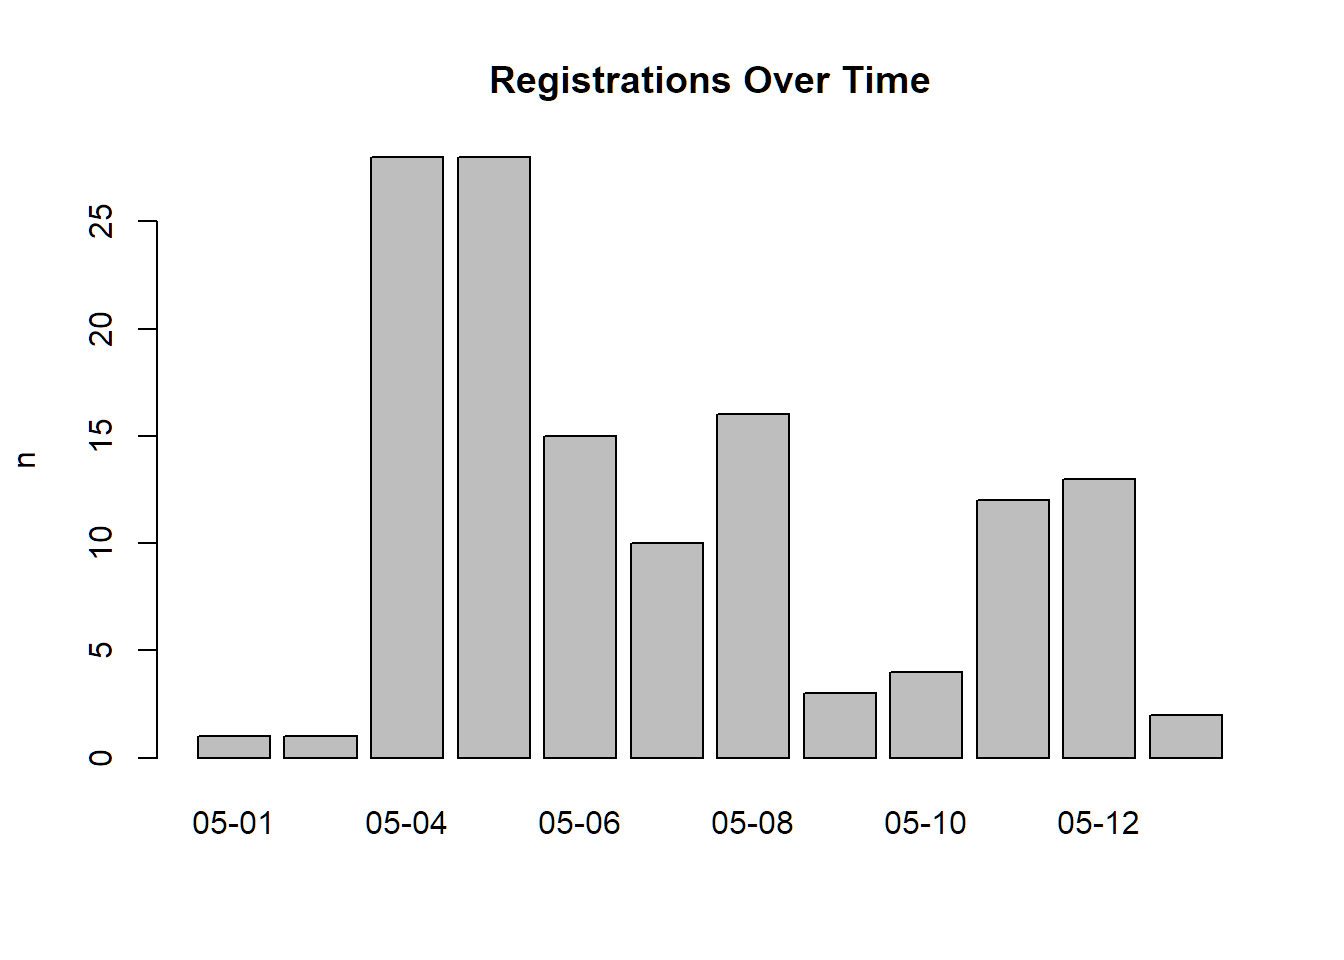
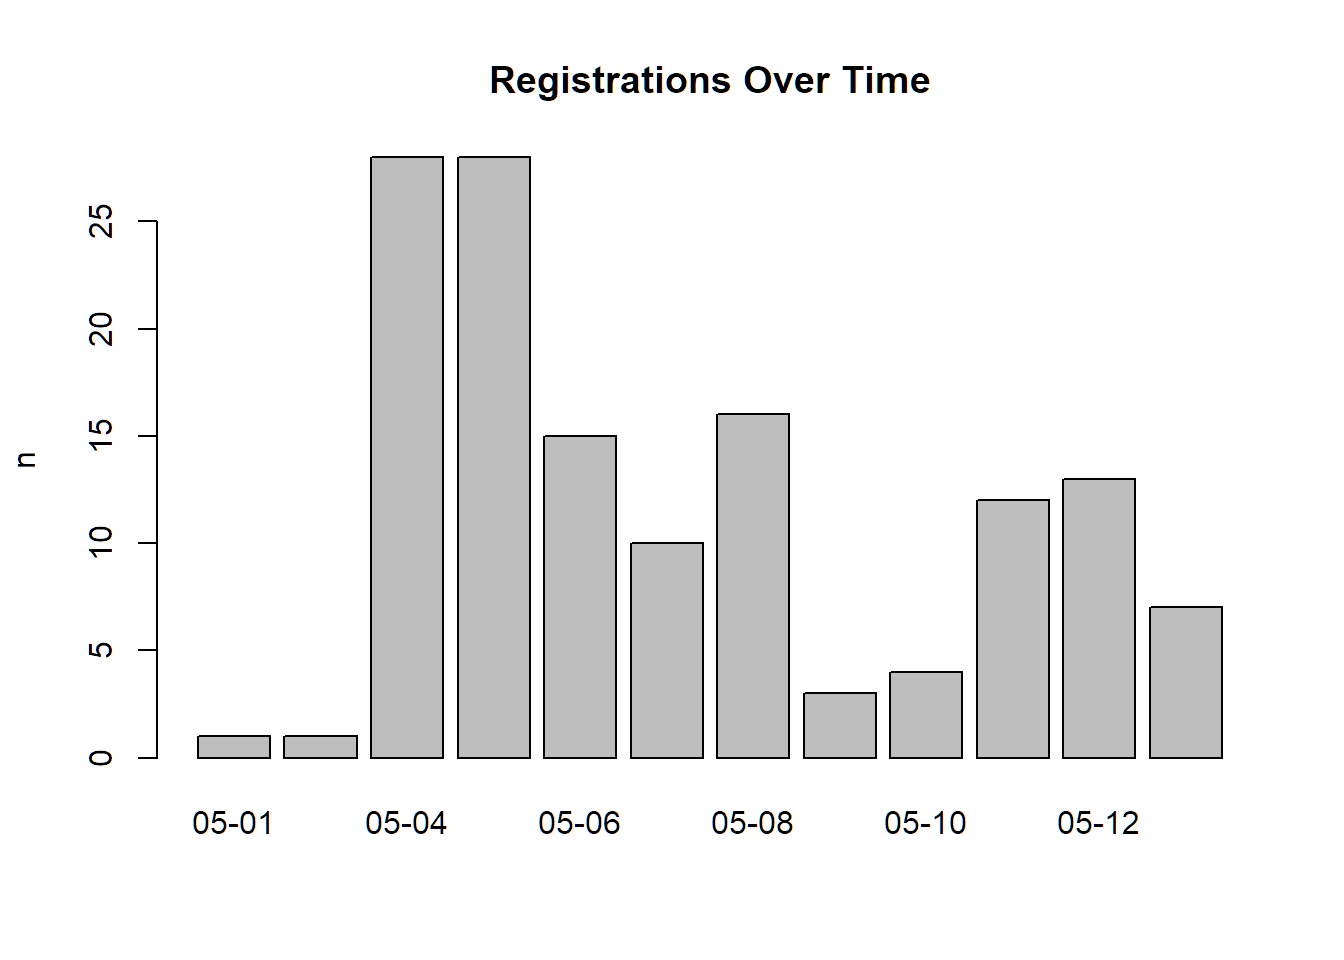
Updated reg summary

Changed region(s): [[0.8438, 0.625, 0.9375, 0.75]]

diff --git a/docs/reg_summary.html b/docs/reg_summary.html
@@ -270,7 +270,7 @@ div.tocify {
 <img src='images/dc-logo_250x182.png'/><br/><span style="letter-spacing: 0.1em; font-weight:800; font-size:18px; color:#836758; font-family:OCR A Std, Andale Mono, monospace;">ONLINE</span>
 </div>
 DroneCamp 2020 Registrations</h1>
-<h4 class="date">as of Wednesday May 13, 11:03</h4>
+<h4 class="date">as of Wednesday May 13, 13:23</h4>
 
 </div>
 
@@ -298,15 +298,15 @@ h4 {
 <h1>Summary</h1>
 <p><p class="total">
 Total: 
-133
+138
 </p><p>
 <em>estimate based on unique email addresses</em>
 </p></p>
 </div>
 <div id="map" class="section level1">
 <h1>Map</h1>
-<div id="htmlwidget-46341efca75de58c9518" style="width:672px;height:480px;" class="leaflet html-widget"></div>
-<script type="application/json" data-for="htmlwidget-46341efca75de58c9518">{"x":{"options":{"crs":{"crsClass":"L.CRS.EPSG3857","code":null,"proj4def":null,"projectedBounds":null,"options":{}}},"calls":[{"method":"addTiles","args":["//{s}.tile.openstreetmap.org/{z}/{x}/{y}.png",null,null,{"minZoom":0,"maxZoom":18,"tileSize":256,"subdomains":"abc","errorTileUrl":"","tms":false,"noWrap":false,"zoomOffset":0,"zoomReverse":false,"opacity":1,"zIndex":1,"detectRetina":false,"attribution":"&copy; <a href=\"http://openstreetmap.org\">OpenStreetMap<\/a> contributors, <a href=\"http://creativecommons.org/licenses/by-sa/2.0/\">CC-BY-SA<\/a>"}]},{"method":"addCircleMarkers","args":[[37.4635519,36.678155,44.6111643,44.60509,38.5449065,32.7764749,36.825582,34.048411,38.5449065,36.9741171,38.556576,40.8020712,35.5005139,36.9707,38.5449065,37.7749295,37.3021632,40.659753,38.457611,37.523901,32.700018,36.6002378,34.4208305,34.117047,37.9829496,40.867469,36.681161,38.549256,41.081726,38.440111,32.704499,33.794028,40.039784,39.072831,37.5629917,40.160138,39.5807452,52.9817372,49.2488091,43.6150186,47.6248791,51.0447331,39.720955,39.720955,39.720955,39.720955,39.720955,40.5852602,34.063209,36.678155,36.447533,35.5496939,40.5852602,34.0966764,36.6844029,49.2827291,34.268736,36.9741171,39.830936,36.722616,40.4233142,40.5852602,39.720955,36.6844029,43.0085587,40.867469,37.8715226,38.480494,33.640302,36.148444,49.2488091,38.672127,32.715738,39.7392358,38.3293416,38.3293416,38.3293416,40.0149856,40.4233142,36.812905,33.571185,34.0522342,32.715738,32.557684,38.939926,38.939926,47.899217,45.497856,41.971044,34.432896,36.3302284,36.358928,36.678155,39.9242266,38.7296252,43.828266,32.6926512,32.8328112,49.2710518,39.202725,34.110009,34.1175895,37.4529598,45.5051064,39.767536,49.1344187,39.114138,34.1175895,39.049377,39.049377,47.899217,32.800259,32.853471,40.399281,32.8111612,39.15973,50.9341773,36.6844029,37.342056,33.016928,39.720955,33.869114,33.016928,36.678155,38.546306,39.7778,45.56544,45.482341,51.1097378,38.528103,38.528103],[-122.4285862,-121.79724,-69.3345032,-69.33022,-121.7405167,-79.9310512,-119.76358,-118.34015,-121.7405167,-122.0307963,-121.49285,-124.1636729,-119.2717761,-121.99086,-121.7405167,-122.4194155,-120.4829677,-124.22153,-122.69317,-120.8516,-114.52671,-121.8946761,-119.6981901,-117.77097,-120.3821724,-124.07519,-121.61538,-121.73655,-124.13112,-122.74563,-114.64644,-118.07218,-105.27938,-108.55,-122.3255254,-105.01772,-104.8771726,-122.4949058,-122.9805104,-116.2023137,-122.5210007,-114.0718831,-121.81888,-121.81888,-121.81888,-121.81888,-121.81888,-105.084423,-118.43643,-121.79724,-121.68611,-120.7060049,-105.084423,-117.7197785,-121.802173,-123.1207375,-119.2249,-122.0307963,-105.03736,-120.10081,-104.7091322,-105.084423,-121.81888,-121.802173,-81.2634983,-124.07519,-122.273042,-122.74976,-117.769442,-95.90841,-122.9805104,-121.15783,-117.1610838,-104.990251,-122.7096666,-122.7096666,-122.7096666,-105.2705456,-104.7091322,-121.78299,-117.15362,-118.2436849,-117.1610838,-94.74353,-119.9771868,-119.9771868,-97.05896,-122.76988,-87.75869,-119.837072,-119.2920585,-119.24027,-121.79724,-83.8088171,-120.798546,-84.74219,-114.6276916,-117.2712717,-123.1588119,-121.02076,-117.71973,-118.188329,-122.1817252,-122.6750261,-105.01973,-123.1163498,-121.6196,-118.188329,-76.49892,-76.49892,-97.05896,-115.35369,-115.58942,-104.70172,-115.3802643,-121.53735,-114.106128,-121.802173,-120.50154,-116.846046,-121.81888,-117.92985,-116.846046,-121.79724,-121.68682,-89.67982,-122.64635,-122.60007,-114.1517792,-76.98063,-76.98063],10,null,null,{"interactive":true,"className":"","stroke":true,"color":"#03F","weight":5,"opacity":0.5,"fill":true,"fillColor":"#03F","fillOpacity":0.2},1,null,["CE Advisor (Urban Forestry)<br/>UCCE San Mateo/San Francisco","Human Resources<br/>MPC Student","Professor<br/>Unity College","Professor of Geoscience<br/>Unity College","Executive Director, Sustainable Wine & Food Processing Center<br/>University of California Davis","Graduate Student<br/>College of Charleston","Turfgrass and Environmental Horticulture Advisor<br/>University of California Cooperative Extension","Postdoctoral Scholar<br/>UCLA","Associate Director River Restoration<br/>American Rivers","Senior Restoration Ecologist<br/>River Partners","Graduate Student<br/>UC Davis","Associate Environmental Planner<br/>Caltrans","Consultant/Remote Sensing Engineer<br/>Wonderful","Masters Candidate<br/>University of California Santa Cruz","Postdoc<br/>UC Davis","GIS Manager/Drone Pilot<br/>SFEI","Student<br/>University of California, Merced","Assistant Professor<br/>College of the Redwoods","Sr. GIS Analyst / Drone Ops<br/>Jackson Family Wines","Assistant Professor of Geography<br/>CSU, Stanislaus","Media Specialist and Drone Operator<br/>University of Arizona Yuma Center of Excellence for Desert Agriculture","GIS Technician<br/>CSU Monterey Bay","Master Student<br/>UCSB","Statewide Survey and Trapping Coordinator<br/>UC IPM","Professor<br/>Columbia College","Adjunct Lecturer<br/>Humboldt State University","Student Researcher<br/>California State University Monterey Bay","Graduate PhD student<br/>University of California Davis","Student<br/>College of the redwoods","Department Chair<br/>Santa Rosa Junior College","Professor of Geosciences/UAS<br/>Arizona Western College","Environmental Scientist<br/>California Department of Fish and Wildlife, Office of Spill Prevention and Response","GIS Ana.yst<br/>AGS Inc.","GIS Technician<br/>City of Grand Junction","Student<br/>College of San Mateo","Unemployed<br/>Unemployed","GIS Specialist<br/>ICON Engineering","Student / BC Ministry of Forests Auxiliary<br/>British Columbia Institute of Technology","Student<br/>British Columbia Institute of Technology","Assistant Professor, Human Environment Systems<br/>Boise State University","Sr Wildlife Biologist/Project Manager<br/>ManTech International","Geographer<br/>none","Water Conservation Technician<br/>Chico State University","Professor<br/>Chico State University","Student Assistant<br/>Chico State University","Student Assistant<br/>Chico State University","Student Assistant<br/>Chico State University","Owner<br/>Private Business","Undergraduate<br/>University of California, Berkeley","Graduate student<br/>UC Santa Cruz","Director, Hastings Reserve<br/>UC Berkeley","Program Manager<br/>Upper Salinas Las Tablas Resource Conservation District","Environmental Scientist<br/>Twin Fish Enterprises LLC","Student<br/>Claremont Graduate University","Graduate Student<br/>California State University Monterey Bay","Student<br/>BCIT","Lab/Field Assistant<br/>UCCE Ventura County","Master Student<br/>University of California Santa Cruz","Sr Geographic Analyst<br/>HERE Technologies","Field Agronomist<br/>Bayer","Professor & Chair<br/>University of Northern Colorado","Student Researcher<br/>Colorado State University","Instructor<br/>Butte College","IST II<br/>CSU. Monterey Bay","Teaching assistant<br/>Western University","It<br/>Humboldt State U","Field Research Safety CoE/Health & Safety Advisor<br/>UC Berkeley","Dairy Advisor<br/>University of California Cooperative Extension","Principal IT Auditor<br/>UC Irvine","Graduate student<br/>University of Tulsa","GIS Student<br/>BCIT","Postdoc<br/>UCDavis","Videographer<br/>SDSC","Student<br/>University of Denver","Scientific Programs Manager<br/>Marin/Sonoma Mosquito and Vector Control District","Environmental Biologist<br/>Marin/Sonoma Mosquito and Vector Control District","Assistant Manager<br/>Marin/Sonoma Mosquito and Vector Control District","Field Engineer<br/>UNAVCO","Emeritus Professor<br/>University of Northern Colorado","Digital Media Assistant<br/>Elkhorn Slough Foundation","Community Edication Specialist<br/>UCCE","Graduate Student<br/>California State University, Los Angeles","Teaching Assistant<br/>UCSD","Student<br/>Letourneau University","Adjunct Instructor<br/>LTCC","Citizen Science Program Coordinator<br/>League to Save Lake Tahoe","Owner<br/>UAS for Good LLC","Instructor<br/>Portland Community College","Instructor<br/>Harper College","R & D Engineer<br/>University of California Santa Barbara","Environmental Scientist<br/>CAL FIRE","Forerstry Assistant II<br/>CAL FIRE","Student<br/>CSU Monterey Bay","Associate Professor/Geospatial Technology Coordinator<br/>Clark State Community College","GIS Manager<br/>County of El Dorado","Instructor<br/>Mid Michigan College","Postdoc<br/>University of Arizona","R&D Engineer<br/>UC San Diego/Scripps Oceanography","Biologist<br/>Hemmera","Middle School Science Teacher<br/>Nevada City School of the Arts","Digital Scholarship Librarian<br/>Claremont Colleges","GIS Analyst and Geophysicist<br/>Rio Hondo College","Postdoctoral scholar<br/>UC Berkeley","student<br/>PSU","Retired<br/>None","Student in GIS<br/>BCIT (British Columbia Student of Technology)","Advisor<br/>UCCE Sutter-Yuba","GIS Analyst / Geophysicist / Geologist<br/>Rio Hondo College","Instructional Specialist<br/>Anne Arundel Community College","Professor<br/>Anne Arundel Community College","Assistant Professor of Aviation<br/>University of North Dakota","CENTER SUPERINTENDENT<br/>University of California  DREC","SRA<br/>University of California  DREC","Assistant Professor<br/>University of Northern Colorado","lab assistant<br/>UC Cooperative Extension  in Imperial","Farm hand<br/>CSU Chico, student","Student<br/>University of Calgary","Student<br/>CSUMB","Coordinator and Professor of Computer Science<br/>Merced College","Ph.D. student<br/>UC San Diego","Environmental Land Steward II<br/>Chico State Enterprise","President<br/>Roof Rx Inc","PhD student<br/>UCSD","Professor and Farm Incubator<br/>CSUMB","Program and Event Specialist<br/>UC ANR","Student<br/>University of Kentucky","STEAM coordinator<br/>Portland Community College","STEAM Coordinator<br/>Portland. Community College","student<br/>Univeristy of Calgary","Program Assistant - Transportation<br/>College of Southern Marland","Director I, Transportation Dept<br/>College of Southern Maryland"],null,null,{"interactive":false,"permanent":false,"direction":"auto","opacity":1,"offset":[0,0],"textsize":"10px","textOnly":false,"className":"","sticky":true},null]}],"limits":{"lat":[32.557684,52.9817372],"lng":[-124.22153,-69.33022]}},"evals":[],"jsHooks":[]}</script>
+<div id="htmlwidget-313b84b929c5e85b7028" style="width:672px;height:480px;" class="leaflet html-widget"></div>
+<script type="application/json" data-for="htmlwidget-313b84b929c5e85b7028">{"x":{"options":{"crs":{"crsClass":"L.CRS.EPSG3857","code":null,"proj4def":null,"projectedBounds":null,"options":{}}},"calls":[{"method":"addTiles","args":["//{s}.tile.openstreetmap.org/{z}/{x}/{y}.png",null,null,{"minZoom":0,"maxZoom":18,"tileSize":256,"subdomains":"abc","errorTileUrl":"","tms":false,"noWrap":false,"zoomOffset":0,"zoomReverse":false,"opacity":1,"zIndex":1,"detectRetina":false,"attribution":"&copy; <a href=\"http://openstreetmap.org\">OpenStreetMap<\/a> contributors, <a href=\"http://creativecommons.org/licenses/by-sa/2.0/\">CC-BY-SA<\/a>"}]},{"method":"addCircleMarkers","args":[[37.4635519,36.678155,44.6111643,44.60509,38.5449065,32.7764749,36.825582,34.048411,38.5449065,36.9741171,38.556576,40.8020712,35.5005139,36.9707,38.5449065,37.7749295,37.3021632,40.659753,38.457611,37.523901,32.700018,36.6002378,34.4208305,34.117047,37.9829496,40.867469,36.681161,38.549256,41.081726,38.440111,32.704499,33.794028,40.039784,39.072831,37.5629917,40.160138,39.5807452,52.9817372,49.2488091,43.6150186,47.6248791,51.0447331,39.720955,39.720955,39.720955,39.720955,39.720955,40.5852602,34.063209,36.678155,36.447533,35.5496939,40.5852602,34.0966764,36.6844029,49.2827291,34.268736,36.9741171,39.830936,36.722616,40.4233142,40.5852602,39.720955,36.6844029,43.0085587,40.867469,37.8715226,38.480494,33.640302,36.148444,49.2488091,38.672127,32.715738,39.7392358,38.3293416,38.3293416,38.3293416,40.0149856,40.4233142,36.812905,33.571185,34.0522342,32.715738,32.557684,38.939926,38.939926,47.899217,45.497856,41.971044,34.432896,36.3302284,36.358928,36.678155,39.9242266,38.7296252,43.828266,32.6926512,32.8328112,49.2710518,39.202725,34.110009,34.1175895,37.4529598,45.5051064,39.767536,49.1344187,39.114138,34.1175895,39.049377,39.049377,47.899217,32.800259,32.853471,40.399281,32.8111612,39.15973,50.9341773,36.6844029,37.342056,33.016928,39.720955,33.869114,33.016928,36.678155,38.546306,39.7778,45.56544,45.482341,51.1097378,38.528103,38.528103,37.010322,38.546306,26.067966,39.735745],[-122.4285862,-121.79724,-69.3345032,-69.33022,-121.7405167,-79.9310512,-119.76358,-118.34015,-121.7405167,-122.0307963,-121.49285,-124.1636729,-119.2717761,-121.99086,-121.7405167,-122.4194155,-120.4829677,-124.22153,-122.69317,-120.8516,-114.52671,-121.8946761,-119.6981901,-117.77097,-120.3821724,-124.07519,-121.61538,-121.73655,-124.13112,-122.74563,-114.64644,-118.07218,-105.27938,-108.55,-122.3255254,-105.01772,-104.8771726,-122.4949058,-122.9805104,-116.2023137,-122.5210007,-114.0718831,-121.81888,-121.81888,-121.81888,-121.81888,-121.81888,-105.084423,-118.43643,-121.79724,-121.68611,-120.7060049,-105.084423,-117.7197785,-121.802173,-123.1207375,-119.2249,-122.0307963,-105.03736,-120.10081,-104.7091322,-105.084423,-121.81888,-121.802173,-81.2634983,-124.07519,-122.273042,-122.74976,-117.769442,-95.90841,-122.9805104,-121.15783,-117.1610838,-104.990251,-122.7096666,-122.7096666,-122.7096666,-105.2705456,-104.7091322,-121.78299,-117.15362,-118.2436849,-117.1610838,-94.74353,-119.9771868,-119.9771868,-97.05896,-122.76988,-87.75869,-119.837072,-119.2920585,-119.24027,-121.79724,-83.8088171,-120.798546,-84.74219,-114.6276916,-117.2712717,-123.1588119,-121.02076,-117.71973,-118.188329,-122.1817252,-122.6750261,-105.01973,-123.1163498,-121.6196,-118.188329,-76.49892,-76.49892,-97.05896,-115.35369,-115.58942,-104.70172,-115.3802643,-121.53735,-114.106128,-121.802173,-120.50154,-116.846046,-121.81888,-117.92985,-116.846046,-121.79724,-121.68682,-89.67982,-122.64635,-122.60007,-114.1517792,-76.98063,-76.98063,-121.98523,-121.68682,-80.22016,-105.19337],10,null,null,{"interactive":true,"className":"","stroke":true,"color":"#03F","weight":5,"opacity":0.5,"fill":true,"fillColor":"#03F","fillOpacity":0.2},1,null,["CE Advisor (Urban Forestry)<br/>UCCE San Mateo/San Francisco","Human Resources<br/>MPC Student","Professor<br/>Unity College","Professor of Geoscience<br/>Unity College","Executive Director, Sustainable Wine & Food Processing Center<br/>University of California Davis","Graduate Student<br/>College of Charleston","Turfgrass and Environmental Horticulture Advisor<br/>University of California Cooperative Extension","Postdoctoral Scholar<br/>UCLA","Associate Director River Restoration<br/>American Rivers","Senior Restoration Ecologist<br/>River Partners","Graduate Student<br/>UC Davis","Associate Environmental Planner<br/>Caltrans","Consultant/Remote Sensing Engineer<br/>Wonderful","Masters Candidate<br/>University of California Santa Cruz","Postdoc<br/>UC Davis","GIS Manager/Drone Pilot<br/>SFEI","Student<br/>University of California, Merced","Assistant Professor<br/>College of the Redwoods","Sr. GIS Analyst / Drone Ops<br/>Jackson Family Wines","Assistant Professor of Geography<br/>CSU, Stanislaus","Media Specialist and Drone Operator<br/>University of Arizona Yuma Center of Excellence for Desert Agriculture","GIS Technician<br/>CSU Monterey Bay","Master Student<br/>UCSB","Statewide Survey and Trapping Coordinator<br/>UC IPM","Professor<br/>Columbia College","Adjunct Lecturer<br/>Humboldt State University","Student Researcher<br/>California State University Monterey Bay","Graduate PhD student<br/>University of California Davis","Student<br/>College of the redwoods","Department Chair<br/>Santa Rosa Junior College","Professor of Geosciences/UAS<br/>Arizona Western College","Environmental Scientist<br/>California Department of Fish and Wildlife, Office of Spill Prevention and Response","GIS Ana.yst<br/>AGS Inc.","GIS Technician<br/>City of Grand Junction","Student<br/>College of San Mateo","Unemployed<br/>Unemployed","GIS Specialist<br/>ICON Engineering","Student / BC Ministry of Forests Auxiliary<br/>British Columbia Institute of Technology","Student<br/>British Columbia Institute of Technology","Assistant Professor, Human Environment Systems<br/>Boise State University","Sr Wildlife Biologist/Project Manager<br/>ManTech International","Geographer<br/>none","Water Conservation Technician<br/>Chico State University","Professor<br/>Chico State University","Student Assistant<br/>Chico State University","Student Assistant<br/>Chico State University","Student Assistant<br/>Chico State University","Owner<br/>Private Business","Undergraduate<br/>University of California, Berkeley","Graduate student<br/>UC Santa Cruz","Director, Hastings Reserve<br/>UC Berkeley","Program Manager<br/>Upper Salinas Las Tablas Resource Conservation District","Environmental Scientist<br/>Twin Fish Enterprises LLC","Student<br/>Claremont Graduate University","Graduate Student<br/>California State University Monterey Bay","Student<br/>BCIT","Lab/Field Assistant<br/>UCCE Ventura County","Master Student<br/>University of California Santa Cruz","Sr Geographic Analyst<br/>HERE Technologies","Field Agronomist<br/>Bayer","Professor & Chair<br/>University of Northern Colorado","Student Researcher<br/>Colorado State University","Instructor<br/>Butte College","IST II<br/>CSU. Monterey Bay","Teaching assistant<br/>Western University","It<br/>Humboldt State U","Field Research Safety CoE/Health & Safety Advisor<br/>UC Berkeley","Dairy Advisor<br/>University of California Cooperative Extension","Principal IT Auditor<br/>UC Irvine","Graduate student<br/>University of Tulsa","GIS Student<br/>BCIT","Postdoc<br/>UCDavis","Videographer<br/>SDSC","Student<br/>University of Denver","Scientific Programs Manager<br/>Marin/Sonoma Mosquito and Vector Control District","Environmental Biologist<br/>Marin/Sonoma Mosquito and Vector Control District","Assistant Manager<br/>Marin/Sonoma Mosquito and Vector Control District","Field Engineer<br/>UNAVCO","Emeritus Professor<br/>University of Northern Colorado","Digital Media Assistant<br/>Elkhorn Slough Foundation","Community Edication Specialist<br/>UCCE","Graduate Student<br/>California State University, Los Angeles","Teaching Assistant<br/>UCSD","Student<br/>Letourneau University","Adjunct Instructor<br/>LTCC","Citizen Science Program Coordinator<br/>League to Save Lake Tahoe","Owner<br/>UAS for Good LLC","Instructor<br/>Portland Community College","Instructor<br/>Harper College","R & D Engineer<br/>University of California Santa Barbara","Environmental Scientist<br/>CAL FIRE","Forerstry Assistant II<br/>CAL FIRE","Student<br/>CSU Monterey Bay","Associate Professor/Geospatial Technology Coordinator<br/>Clark State Community College","GIS Manager<br/>County of El Dorado","Instructor<br/>Mid Michigan College","Postdoc<br/>University of Arizona","R&D Engineer<br/>UC San Diego/Scripps Oceanography","Biologist<br/>Hemmera","Middle School Science Teacher<br/>Nevada City School of the Arts","Digital Scholarship Librarian<br/>Claremont Colleges","GIS Analyst and Geophysicist<br/>Rio Hondo College","Postdoctoral scholar<br/>UC Berkeley","student<br/>PSU","Retired<br/>None","Student in GIS<br/>BCIT (British Columbia Student of Technology)","Advisor<br/>UCCE Sutter-Yuba","GIS Analyst / Geophysicist / Geologist<br/>Rio Hondo College","Instructional Specialist<br/>Anne Arundel Community College","Professor<br/>Anne Arundel Community College","Assistant Professor of Aviation<br/>University of North Dakota","CENTER SUPERINTENDENT<br/>University of California  DREC","SRA<br/>University of California  DREC","Assistant Professor<br/>University of Northern Colorado","lab assistant<br/>UC Cooperative Extension  in Imperial","Farm hand<br/>CSU Chico, student","Student<br/>University of Calgary","Student<br/>CSUMB","Coordinator and Professor of Computer Science<br/>Merced College","Ph.D. student<br/>UC San Diego","Environmental Land Steward II<br/>Chico State Enterprise","President<br/>Roof Rx Inc","PhD student<br/>UCSD","Professor and Farm Incubator<br/>CSUMB","Program and Event Specialist<br/>UC ANR","Student<br/>University of Kentucky","STEAM coordinator<br/>Portland Community College","STEAM Coordinator<br/>Portland. Community College","student<br/>Univeristy of Calgary","Program Assistant - Transportation<br/>College of Southern Marland","Director I, Transportation Dept<br/>College of Southern Maryland","student<br/>West Valley College","Sr. Systems Administrator<br/>University of California - Agriculture and Natural Resources","Geomatics Specialist<br/>UF","Multimedia Section Lead<br/>NREL"],null,null,{"interactive":false,"permanent":false,"direction":"auto","opacity":1,"offset":[0,0],"textsize":"10px","textOnly":false,"className":"","sticky":true},null]}],"limits":{"lat":[26.067966,52.9817372],"lng":[-124.22153,-69.33022]}},"evals":[],"jsHooks":[]}</script>
 </div>
 <div id="by-email-domain" class="section level1">
 <h1>By Email Domain</h1>
@@ -330,10 +330,10 @@ percent
 edu
 </td>
 <td style="text-align:right;">
-90
+94
 </td>
 <td style="text-align:left;">
-67.7%
+68.1%
 </td>
 </tr>
 <tr>
@@ -344,7 +344,7 @@ com
 24
 </td>
 <td style="text-align:left;">
-18%
+17.4%
 </td>
 </tr>
 <tr>
@@ -355,7 +355,7 @@ org
 8
 </td>
 <td style="text-align:left;">
-6%
+5.8%
 </td>
 </tr>
 <tr>
@@ -366,7 +366,7 @@ ca
 5
 </td>
 <td style="text-align:left;">
-3.8%
+3.6%
 </td>
 </tr>
 <tr>
@@ -374,10 +374,10 @@ ca
 gov
 </td>
 <td style="text-align:right;">
-4
+5
 </td>
 <td style="text-align:left;">
-3%
+3.6%
 </td>
 </tr>
 <tr>
@@ -388,7 +388,7 @@ edi
 1
 </td>
 <td style="text-align:left;">
-0.8%
+0.7%
 </td>
 </tr>
 <tr>
@@ -399,7 +399,7 @@ us
 1
 </td>
 <td style="text-align:left;">
-0.8%
+0.7%
 </td>
 </tr>
 </tbody>
@@ -574,6 +574,14 @@ University of California Davis
 <tr>
 <td style="text-align:left;">
 University of California Santa Cruz
+</td>
+<td style="text-align:right;">
+2
+</td>
+</tr>
+<tr>
+<td style="text-align:left;">
+University of California, Berkeley
 </td>
 <td style="text-align:right;">
 2
@@ -941,6 +949,14 @@ None
 </tr>
 <tr>
 <td style="text-align:left;">
+NREL
+</td>
+<td style="text-align:right;">
+1
+</td>
+</tr>
+<tr>
+<td style="text-align:left;">
 Portland. Community College
 </td>
 <td style="text-align:right;">
@@ -1133,6 +1149,14 @@ UCSB
 </tr>
 <tr>
 <td style="text-align:left;">
+UF
+</td>
+<td style="text-align:right;">
+1
+</td>
+</tr>
+<tr>
+<td style="text-align:left;">
 UNAVCO
 </td>
 <td style="text-align:right;">
@@ -1181,7 +1205,7 @@ University of Calgary
 </tr>
 <tr>
 <td style="text-align:left;">
-University of California Santa Barbara
+University of California - Agriculture and Natural Resources
 </td>
 <td style="text-align:right;">
 1
@@ -1189,7 +1213,7 @@ University of California Santa Barbara
 </tr>
 <tr>
 <td style="text-align:left;">
-University of California, Berkeley
+University of California Santa Barbara
 </td>
 <td style="text-align:right;">
 1
@@ -1254,6 +1278,14 @@ Upper Salinas Las Tablas Resource Conservation District
 <tr>
 <td style="text-align:left;">
 Weirwood Biological LLC
+</td>
+<td style="text-align:right;">
+1
+</td>
+</tr>
+<tr>
+<td style="text-align:left;">
+West Valley College
 </td>
 <td style="text-align:right;">
 1
